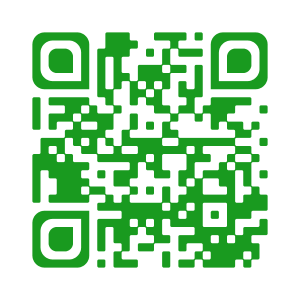
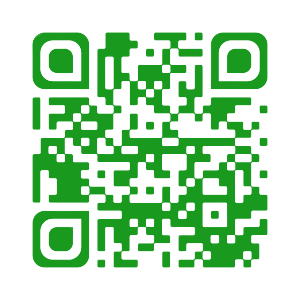
Removal of Background from Scan Image

diff --git a/css/fncmart_stakeholders.css b/css/fncmart_stakeholders.css
@@ -28,8 +28,8 @@
 
 .card-img-top{
     text-align: center !important;
-    height: 250px !important;
-    width: 250px !important;
+    height: 220px !important;
+    width: 220px !important;
 }
 .outer {
     width: 2px;
